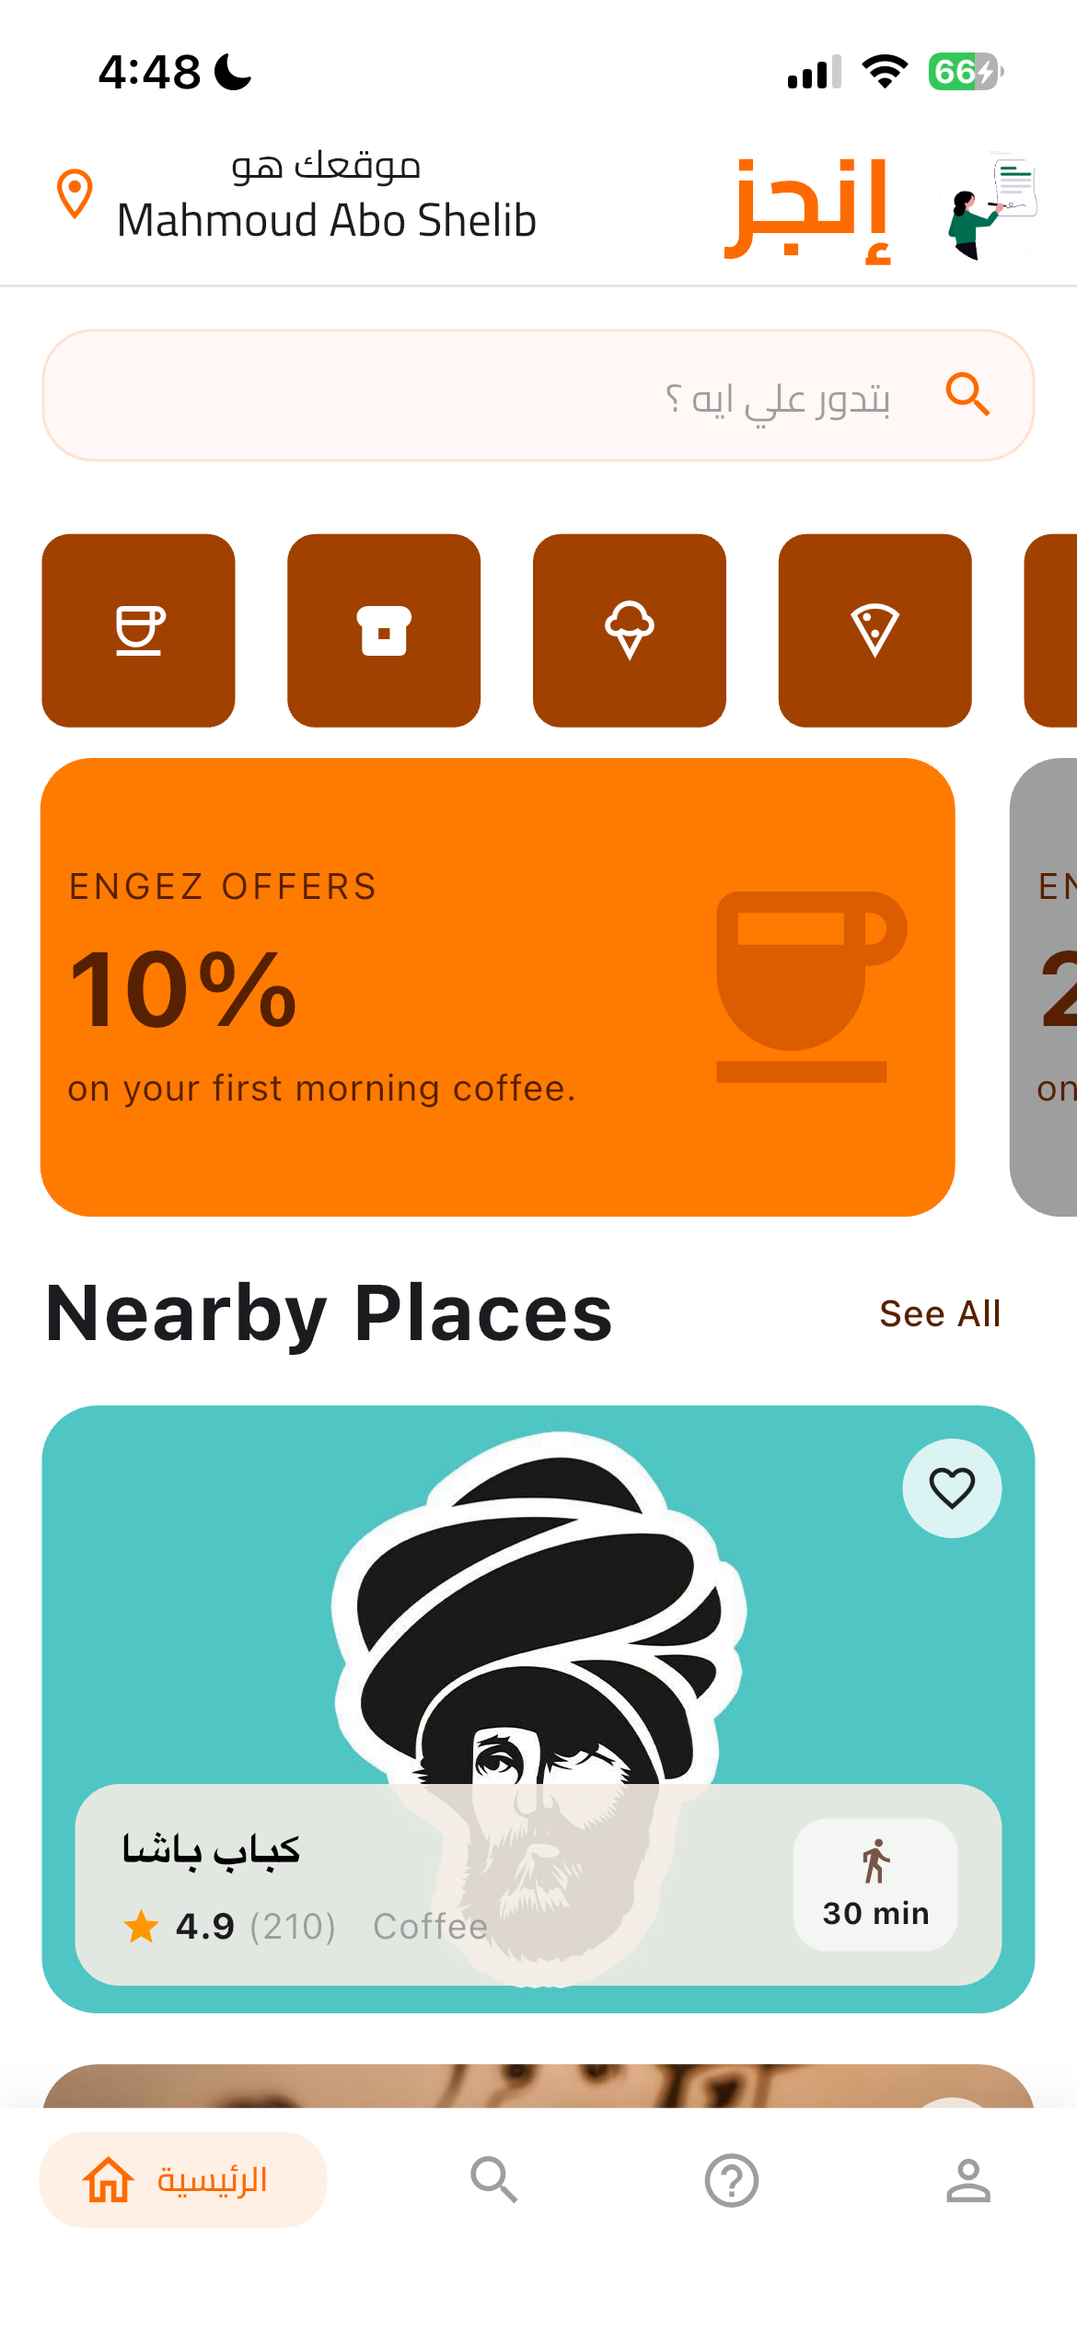
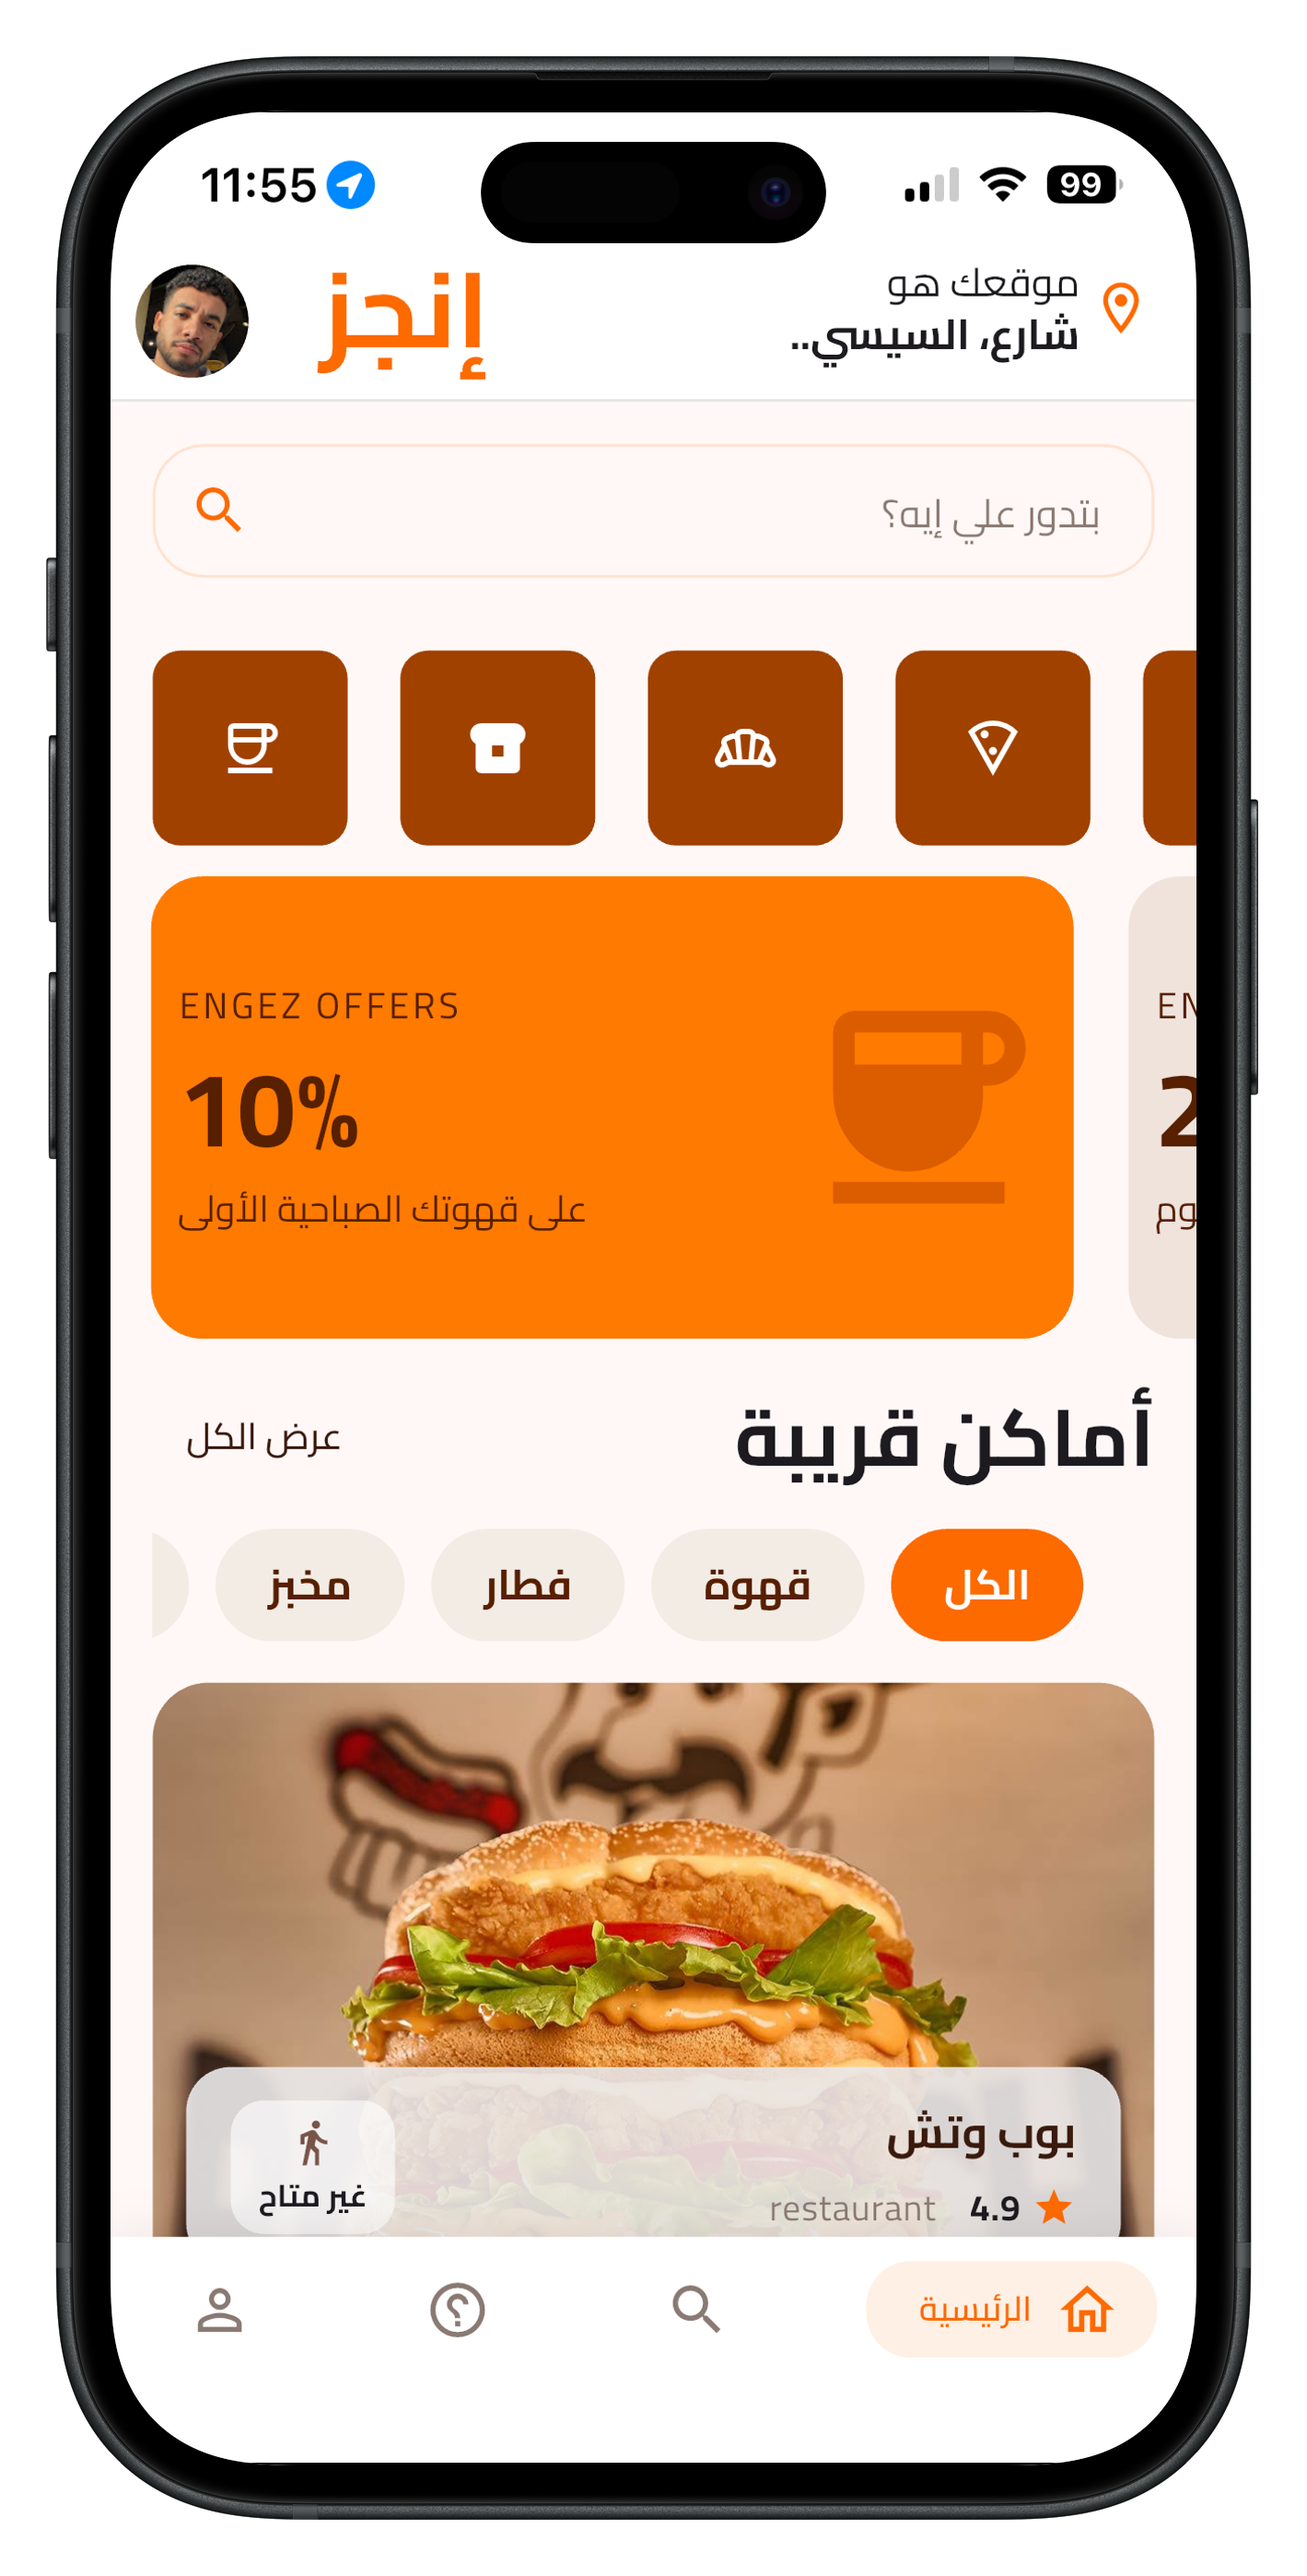
improve README file

diff --git a/README.md b/README.md
@@ -1,103 +1,103 @@
-# Engez (إنجز)
+# Engez (إنجز) 🚀
 
-A Flutter app for pre-ordering food and drinks from nearby cafes and restaurants, paying online, and getting notified when the order is ready for pickup — no more waiting in line.
+![Flutter](https://img.shields.io/badge/Flutter-%2302569B.svg?style=for-the-badge&logo=Flutter&logoColor=white)
+![Firebase](https://img.shields.io/badge/firebase-%23039BE5.svg?style=for-the-badge&logo=firebase)
+![Dart](https://img.shields.io/badge/dart-%230175C2.svg?style=for-the-badge&logo=dart&logoColor=white)
 
-##  Concept
+**Engez** is a modern, high-performance Flutter application designed to eliminate waiting lines in restaurants and cafes through an efficient **Order Ahead & Pick-up** system. Users can order their food or coffee while on the go, and simply pick it up upon arrival—saving valuable time!
 
-The user opens the app, sees nearby cafes/restaurants based on their location, places and pays for an order online, then gets notified once the order is ready for pickup.
+## 🎥 App Demo Video
 
-## 📱 Screens
+> **Watch the full app experience in action:**
+> *(Place your video link here, e.g., YouTube or LinkedIn)*
+> 
+> `<a href="YOUR_VIDEO_LINK_HERE" target="_blank"><img src="https://img.youtube.com/vi/YOUR_VIDEO_ID/0.jpg" alt="Watch the video" width="400" /></a>`
 
-| Login | Home | Place Details |
-|---|---|---|
-| <img src="screenshots/login.PNG" width="250" /> | <img src="screenshots/home.PNG" width="250" /> | <img src="screenshots/placeDetails.PNG" width="250" /> |
+---
 
-##  Current Features
+## 🌟 Key Features
 
-- **Auth**
-  - Login with Egyptian phone number + OTP via Firebase Phone Auth
-  - Google Sign-In
-- **Location**
-  - Fetches the user's current location and resolves it to a readable address (Geocoding)
-  - Handles all location permission states (denied, disabled, permanently denied)
-- **Categories**
-  - Select a category from a list of place/item categories
-- **UI**
-  - Responsive design across all screen sizes (flutter_screenutil)
-  - Custom color theme with Arabic font support (Google Fonts - Cairo)
-  - Reusable UI components (buttons, cards, input fields, bottom nav bar, offers carousel...)
+* **Order Ahead & Save Time:** Seamless, real-time connection between the customer and the restaurant to prepare orders before arrival, completely eliminating crowds and wait times.
+* **Smart Cart:** A dynamic, advanced cart system that allows users to easily add items, adjust quantities, and calculate totals in real-time.
+* **Interactive PDF Menus:** Integrated an advanced PDF viewer within a sleek Glass Blur pop-up design for a premium, interactive menu browsing experience.
+* **Lightning-Fast Performance:** Instantaneous UI updates and flawless interactions powered by robust state management (BLoC/Cubit) with zero lag.
+* **Dedicated Owner Dashboard:** A completely separate flow for restaurant owners to manage incoming orders, track statuses, and seamlessly add/edit their menu items with a beautiful Grid and Bottom Sheet UI.
 
-##  Tech Stack
+---
 
-| Technology | Purpose |
-|---|---|
-| Flutter | Core framework |
-| Firebase Core / Firebase Auth | Login and authentication |
-| Google Sign-In | Google login |
-| flutter_bloc (Cubit) | State management |
-| equatable | Efficient state comparison |
-| flutter_screenutil | Responsive UI |
-| google_fonts | Custom fonts (Cairo) |
-| geolocator / geocoding | Geolocation and reverse geocoding |
-| google_nav_bar | Bottom navigation bar |
-| carousel_slider | Offers/slider display |
+## 📱 Screenshots
 
-## 📁 Project Structure
+### Customer Flow
 
-```
+| Home | Search & Filter | Place Details |
+| :---: | :---: | :---: |
+| <img src="screenshots/home.PNG" width="250" /> | <img src="screenshots/search.png" width="250" /> | <img src="screenshots/placeDetails.PNG" width="250" /> |
+
+| Offers & Categories | Smart Cart / Add Note | My Orders |
+| :---: | :---: | :---: |
+| <img src="screenshots/offers.png" width="250" /> | <img src="screenshots/addNote.png" width="250" /> | <img src="screenshots/myOrders.png" width="250" /> |
+
+| Order In Progress | Order Done | Profile |
+| :---: | :---: | :---: |
+| <img src="screenshots/inProgress.png" width="250" /> | <img src="screenshots/done.png" width="250" /> | <img src="screenshots/profile.png" width="250" /> |
+
+---
+
+## 🛠 Tech Stack & Architecture
+
+* **State Management:** Fully relies on **BLoC (Cubit)** to handle business logic, completely decoupled from the UI for optimal **Clean Code** architecture.
+* **Backend Integration:** Deeply integrated with **Firebase** ecosystem:
+  * **Firebase Authentication:** Phone Number (OTP) and Google Sign-in.
+  * **Cloud Firestore:** Real-time NoSQL database for managing users, places, menus, and syncing order statuses instantly across devices.
+  * **Firebase Storage:** Handling image uploads for users and restaurant menu items.
+* **Routing:** `go_router` for advanced, declarative navigation.
+* **UI/UX:** `flutter_screenutil` for extreme responsiveness, `skeletonizer` for modern shimmer loading effects, and custom `Google Fonts` (Cairo) for Arabic typography.
+
+## 📁 Project Structure (Feature-First)
+
+```text
 lib/
-├── main.dart                      # App entry point and Firebase initialization
-├── firebase_options.dart          # Firebase config (auto-generated)
-├── constants/
-│   └── my_colors.dart             # Core app colors
+├── main.dart
+├── router/
+│   └── app_router.dart            # GoRouter configuration
 ├── core/
-│   └── theme/
-│       └── app_theme.dart         # Global theme (colors, fonts, buttons, input fields)
+│   └── theme/                     # Global theming & styles
+├── constants/
+│   └── my_colors.dart             # Unified color palette
 ├── features/
-│   ├── auth/
-│   │   ├── manager/                       # AuthCubit + AuthState
-│   │   └── presentation/screens/          # Login and home screens
-│   ├── category/                          # SelectCategoryCubit + State
-│   └── location/
-│       └── manger/                        # LocationCubit + State
-└── widgets/                        # Reusable UI components
-    ├── custom_button.dart
-    ├── custom_icon_button.dart
-    ├── custom_image.dart
-    ├── custom_offer_section.dart
-    ├── custom_text_bubble.dart
-    ├── custom_text_field.dart
-    ├── category_list.dart
-    ├── menu_item_card.dart
-    ├── nav_bar.dart
-    └── place_card.dart
+│   ├── auth/                      # Authentication & Role Selection
+│   ├── home/                      # Main customer feed & Discovery
+│   ├── place/                     # Restaurant details & menus
+│   ├── menu/                      # Menu items & PDF viewer
+│   ├── cart/                      # Smart Cart management
+│   ├── order/                     # Order history, tracking, & owner management
+│   ├── owner/                     # Owner dashboard & sales reports
+│   └── profile/                   # User profiles & settings
+└── widgets/                       # Highly reusable global UI components
 ```
 
-## ⚙ Setup & Run
+## 🚀 Setup & Installation
 
 ### Requirements
-- Flutter SDK installed on your machine
-- A Firebase project linked to the app (the `firebase_options.dart` file must be configured for your own Firebase project)
-- **Phone Authentication** and **Google Sign-In** enabled in the Firebase Authentication console
+- Flutter SDK (`>=3.0.0`)
+- A Firebase project linked to your package name.
 
 ### Run Steps
 
-```bash
-# Install dependencies
-flutter pub get
-
-# Run the app
-flutter run
-```
-
-> Note: Make sure `firebase_options.dart` is generated from your own Firebase project (via `flutterfire configure`), not used as-is from the repo, since it's tied to a specific Firebase project.
-
-## 🗺 Suggested Next Steps
-
-- Screens: menu view, cart & checkout, order tracking, order history
-- Integrate online payment (Visa)
-- Connect a real places list instead of the current placeholder data
-- Push notifications when the order is ready
+1. **Clone the repository**
+2. **Install dependencies:**
+   ```bash
+   flutter pub get
+   ```
+3. **Configure Firebase:**
+   Ensure `firebase_options.dart` is correctly generated for your project using FlutterFire CLI:
+   ```bash
+   flutterfire configure
+   ```
+4. **Run the app:**
+   ```bash
+   flutter run
+   ```
 
 ---
-This file was auto-generated based on the current project code.
+*Built with ❤ to redefine the dining experience.*
